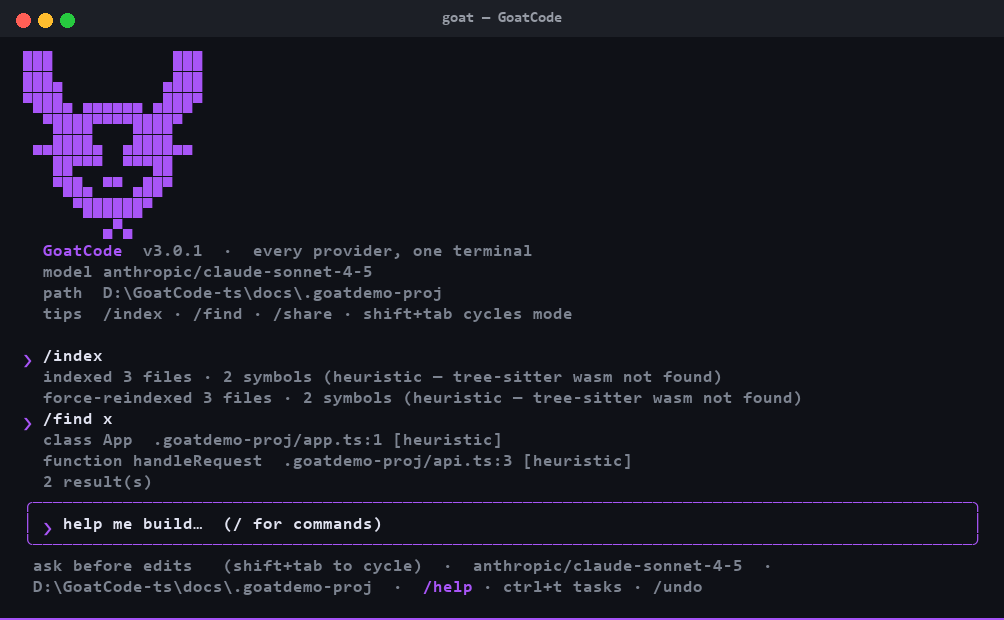
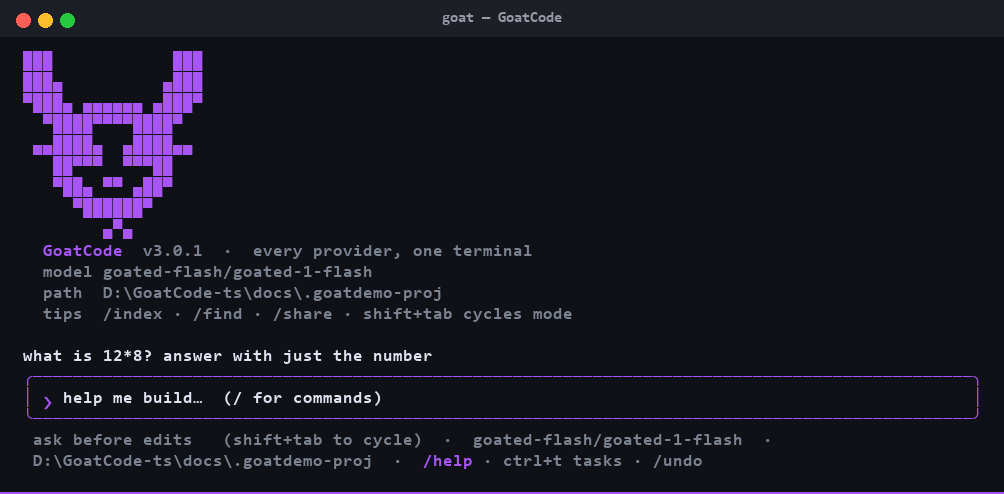
release: v3.0.1 final — Goated-branded zero-config embedded flash model, all demo GIFs restored

Changed region(s): [[0.0, 0.0, 0.988, 0.9717], [0.4323, 0.0, 0.5558, 0.0607]]

diff --git a/src/gflash.ts b/src/gflash.ts
@@ -8,7 +8,7 @@
  * and talks to it over loopback. No API key, no signup, free.
  *
  * Auto-engage: when the user has no provider credentials at all, GoatCode
- * boots on goated-flash/gemini-3.5-flash. /model flash switches to it any
+ * boots on goated-flash/goated-1-flash. /model flash switches to it any
  * time; /model <provider>/<model> switches away.
  */
 import { spawn, type ChildProcess } from "node:child_process";
@@ -22,10 +22,10 @@ import type { ChatClient, StreamEvent, StreamOpts, ToolSpec, Message } from "./l
 
 export const GOATED_FLASH_ID = "goated-flash";
 export const GOATED_FLASH_LABEL = "Goated-Flash-Free";
-export const GEMINI_FREE_MODEL = "gemini-3.5-flash";
-export const GEMINI_FREE_MODELS = [
-  "gemini-3.5-flash", "gemini-3.6-flash", "gemini-3.7-flash",
-  "gemini-3.5-flash-thinking", "gemini-flash-lite",
+export const FLASH_MODEL = "goated-1-flash";
+export const FLASH_MODELS = [
+  "goated-1-flash", "goated-2-flash", "goated-3-flash",
+  "goated-1-flash-thinking", "goated-flash-lite", "goated-pro", "goated-auto",
 ];
 
 /** Tool-call convention the proxy understands (parsed out of the reply). */
@@ -131,8 +131,8 @@ export class GoatedFlashFreeClient implements ChatClient {
   async *streamChat(messages: Message[], tools: ToolSpec[], opts: StreamOpts): AsyncGenerator<StreamEvent> {
     const base = await startFlashServer();
     const client = makeClient("openai", base, {}) as ChatClient;
-    // the proxy only knows its own model ids; force the flash default
-    opts = { ...opts, model: opts.model.includes("gemini") ? opts.model : GEMINI_FREE_MODEL };
+    // the embedded engine only knows its own model ids; force the default
+    opts = { ...opts, model: FLASH_MODELS.includes(opts.model) ? opts.model : FLASH_MODEL };
     let full = "";
     let emitted = 0;
     // Displayable prefix of the raw text: everything before an OPEN fence, or

diff --git a/src/runtime.ts b/src/runtime.ts
@@ -11,7 +11,7 @@ import {
   type Provider, type ProviderRegistry,
 } from "./providers.ts";
 import { credentialValid } from "./providers.ts";
-import { GoatedFlashFreeClient, GOATED_FLASH_ID, GEMINI_FREE_MODEL, FLASH_TOOL_INSTRUCTION } from "./gflash.ts";
+import { GoatedFlashFreeClient, GOATED_FLASH_ID, FLASH_MODEL, FLASH_MODELS, FLASH_TOOL_INSTRUCTION } from "./gflash.ts";
 
 export class ResolveError extends Error {}
 export class AuthRequired extends ResolveError {
@@ -63,10 +63,10 @@ export async function resolve(cfg: GoatConfig, registry: ProviderRegistry): Prom
   if (cfg.provider === GOATED_FLASH_ID || registry.hasGoatedFlash()) {
     const flash: Provider = {
       id: GOATED_FLASH_ID, name: "Goated-Flash-Free", format: "openai",
-      baseUrl: "http://127.0.0.1:8765/v1", auth: "none", models: [GEMINI_FREE_MODEL], custom: false,
+      baseUrl: "http://127.0.0.1:8765/v1", auth: "none", models: [FLASH_MODEL], custom: false,
     };
     cfg.provider = GOATED_FLASH_ID;
-    cfg.modelId = cfg.modelId && cfg.modelId.includes("gemini") ? cfg.modelId : GEMINI_FREE_MODEL;
+    cfg.modelId = FLASH_MODELS.includes(cfg.modelId) ? cfg.modelId : FLASH_MODEL;
     cfg.model = `${GOATED_FLASH_ID}/${cfg.modelId}`;
     return { provider: flash, credential: { kind: "api_key", apiKey: "free", expiresAt: 0 }, client: new GoatedFlashFreeClient() };
   }

diff --git a/src/providers.ts b/src/providers.ts
@@ -6,7 +6,7 @@ import { chmodSync, mkdirSync, readFileSync, writeFileSync } from "node:fs";
 import { join } from "node:path";
 import { appDir, type CustomEndpoint, type WireFormat } from "./config.ts";
 import catalogData from "./data/providers.json";
-import { GEMINI_FREE_MODEL, GEMINI_FREE_MODELS, GOATED_FLASH_ID, GOATED_FLASH_LABEL } from "./gflash.ts";
+import { FLASH_MODEL, FLASH_MODELS, GOATED_FLASH_ID, GOATED_FLASH_LABEL } from "./gflash.ts";
 export { GOATED_FLASH_ID };
 
 const ENDPOINT_SUFFIXES = [
@@ -186,7 +186,7 @@ export function loadCatalog(): Map<string, Provider> {
   providers.set(GOATED_FLASH_ID, {
     id: GOATED_FLASH_ID, name: GOATED_FLASH_LABEL, format: "openai",
     baseUrl: "http://127.0.0.1:8765/v1", auth: "none",
-    models: GEMINI_FREE_MODELS, custom: false,
+    models: FLASH_MODELS, custom: false,
   });
   return providers;
 }

diff --git a/src/commands.tsx b/src/commands.tsx
@@ -335,7 +335,7 @@ export function runSlash(line: string, io: SlashIO): boolean {
       io.push(<Text>  model:  {io.cfg.model} · max_tokens {io.cfg.maxTokens} · auto_approve {String(io.cfg.autoApprove)}</Text>);
       io.push(<Text>  edits:  change the JSON directly, or use /model · /auth · /mcp (they save for you)</Text>);
       if (io.registry.hasGoatedFlash())
-        io.push(<Text dimColor color="#7c8390">  goated-flash: active — free Gemini Web fallback, no key needed</Text>);
+        io.push(<Text dimColor color="#7c8390">  goated-flash: active — Goated-Flash-Free embedded model, no key needed</Text>);
       return true;
     }
 

diff --git a/src/config.ts b/src/config.ts
@@ -111,7 +111,8 @@ export const MODEL_ALIASES: Record<string, string> = {
   gemini: "gemini/gemini-2.5-pro",
   grok: "xai/grok-4",
   deepseek: "deepseek/deepseek-chat",
-  flash: "goated-flash/gemini-3.5-flash",
+  flash: "goated-flash/goated-1-flash",
+  goated: "goated-flash/goated-1-flash",
 };
 
 export function expandModelAlias(model: string): string {

diff --git a/README.md b/README.md
@@ -24,7 +24,7 @@ GoatCode v3 is a major architectural leap designed for professional developers w
 3. **P2P Collaboration Relay (`src/collab`)** — End-to-end encrypted WebSocket relay with Lamport timestamp sequencing, invite codes, turn-tokens, and live peer synchronization.
 4. **Agent-as-a-Service Protocol (`src/protocol`)** — JSON-RPC 2.0 over HTTP (`POST /rpc`) and WebSocket with constant-time token auth, path-jailed execution, and remote agent mounting (`remote_<name>`).
 5. **Signed Plugin Marketplace (`src/plugins`)** — Secure tar+gzip extractor with path-traversal/bomb guards and ed25519 signature verification against pinned keys.
-6. **Goated-Flash-Free** — Zero-config built-in free tier: when no API key is connected, GoatCode auto-boots an embedded Gemini Web proxy, giving you full AI coding out of the box with zero setup.
+6. **Goated-Flash-Free** — Zero-config built-in free tier: when no API key is connected, GoatCode auto-boots an embedded free inference engine, giving you full AI coding out of the box with zero setup.
 
 ---
 
